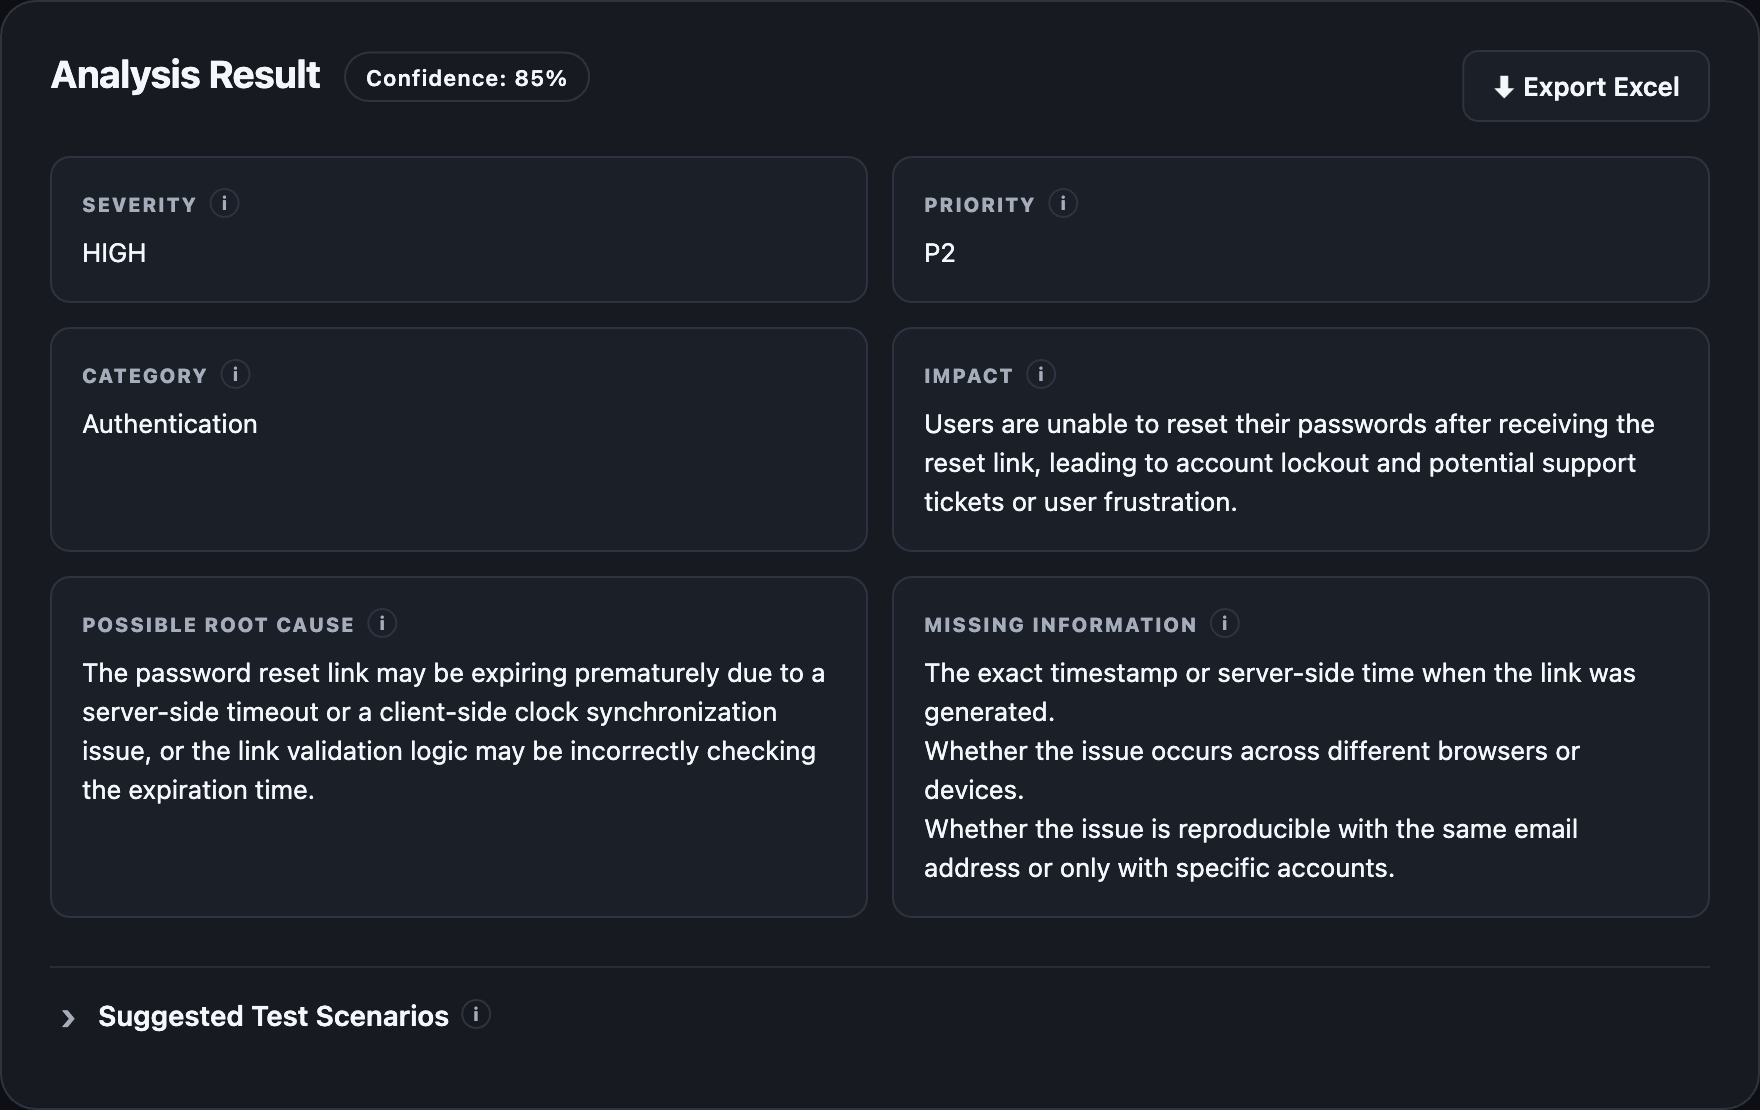
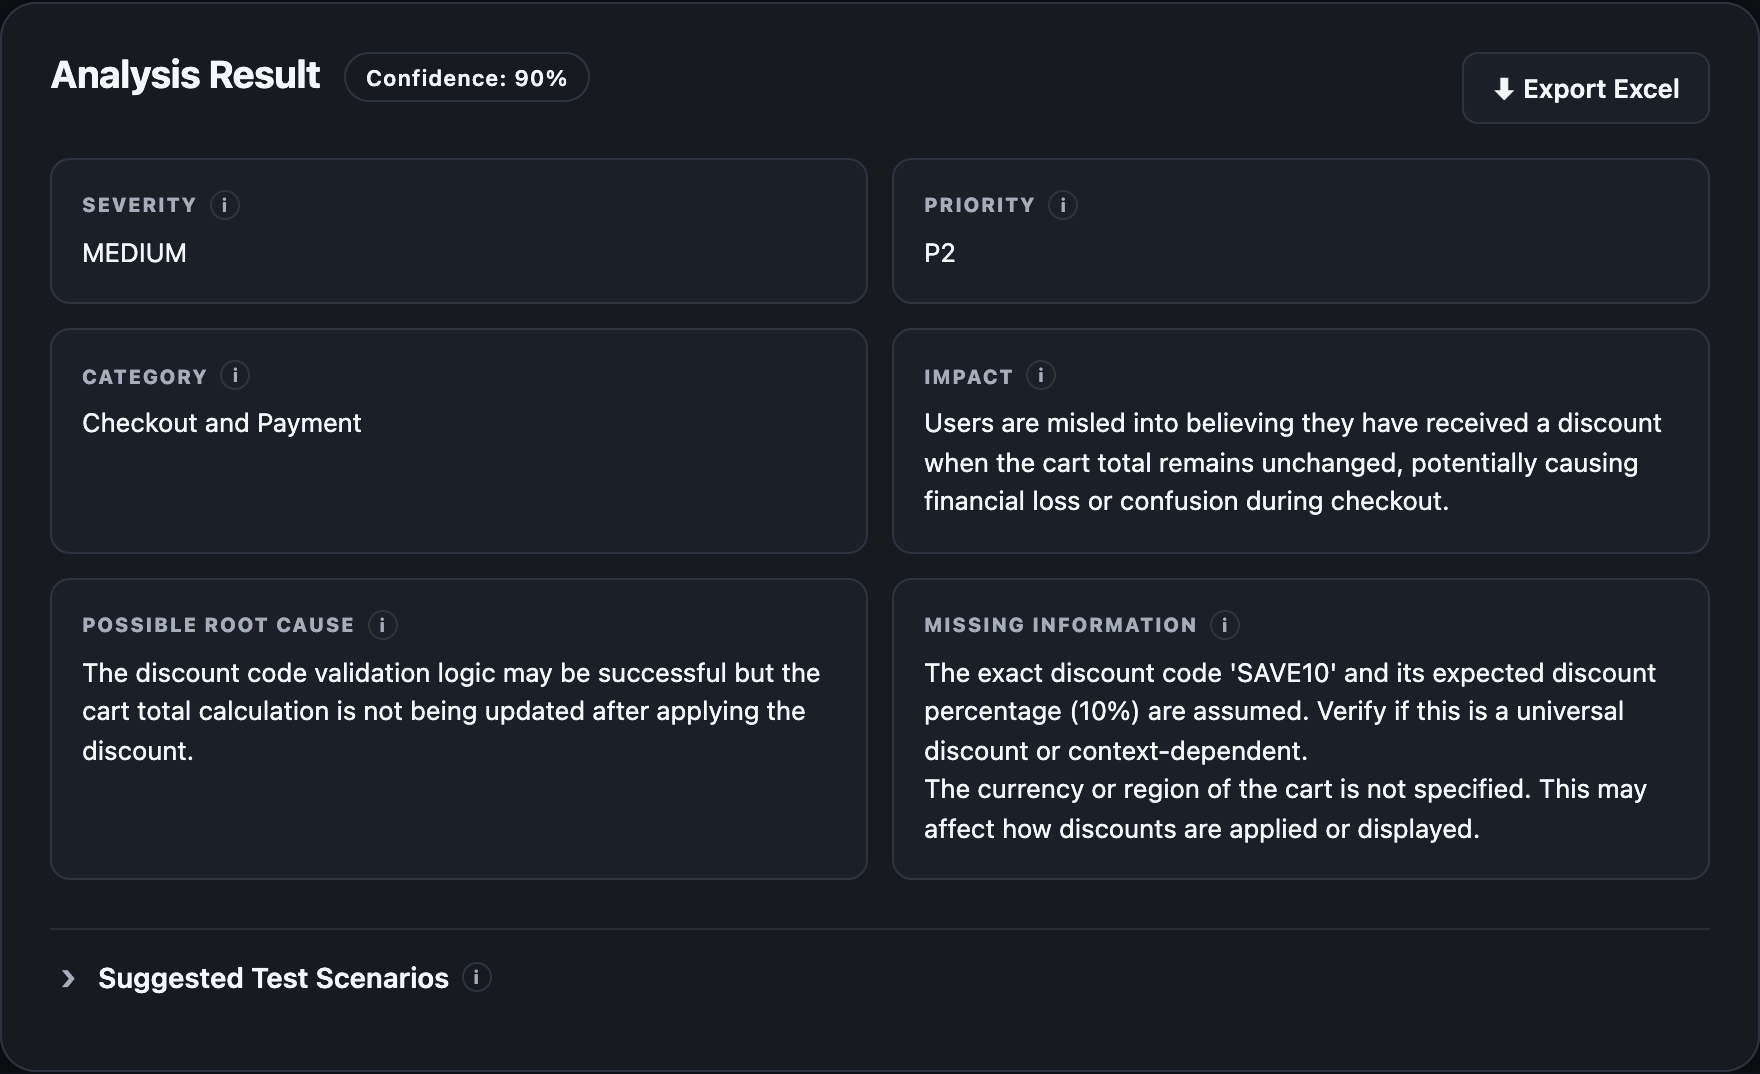
Show the suggested test scenarios and the service diagnosis in the README
The single bug screenshot is retaken from the same analysis as the test scenarios, so both show the same bug.

diff --git a/README.md b/README.md
@@ -14,11 +14,17 @@ You can analyze **one bug** (with screenshots if you have them) or a **whole Exc
 
 ![Analysis of one bug report: confidence, severity, priority, category, impact, possible root cause and missing information](docs/images/single-result.png)
 
+![Suggested test scenarios for the bug, each with a scenario, expected result, purpose and priority](docs/images/test-scenarios.png)
+
 ### Batch Analysis
 
 ![Batch analysis of the six sample bugs: overview counts, severity, priority and category summary, and one card per bug](docs/images/batch-result.png)
 
 ![One bug card opened in the batch result: confidence, priority, category, impact, possible root cause and missing information](docs/images/bug-detail.png)
+
+### Service Diagnosis
+
+![The service diagnosis checking the application, Ollama, the required model and a real inference call](docs/images/service-diagnosis.png)
 
 ---
 
